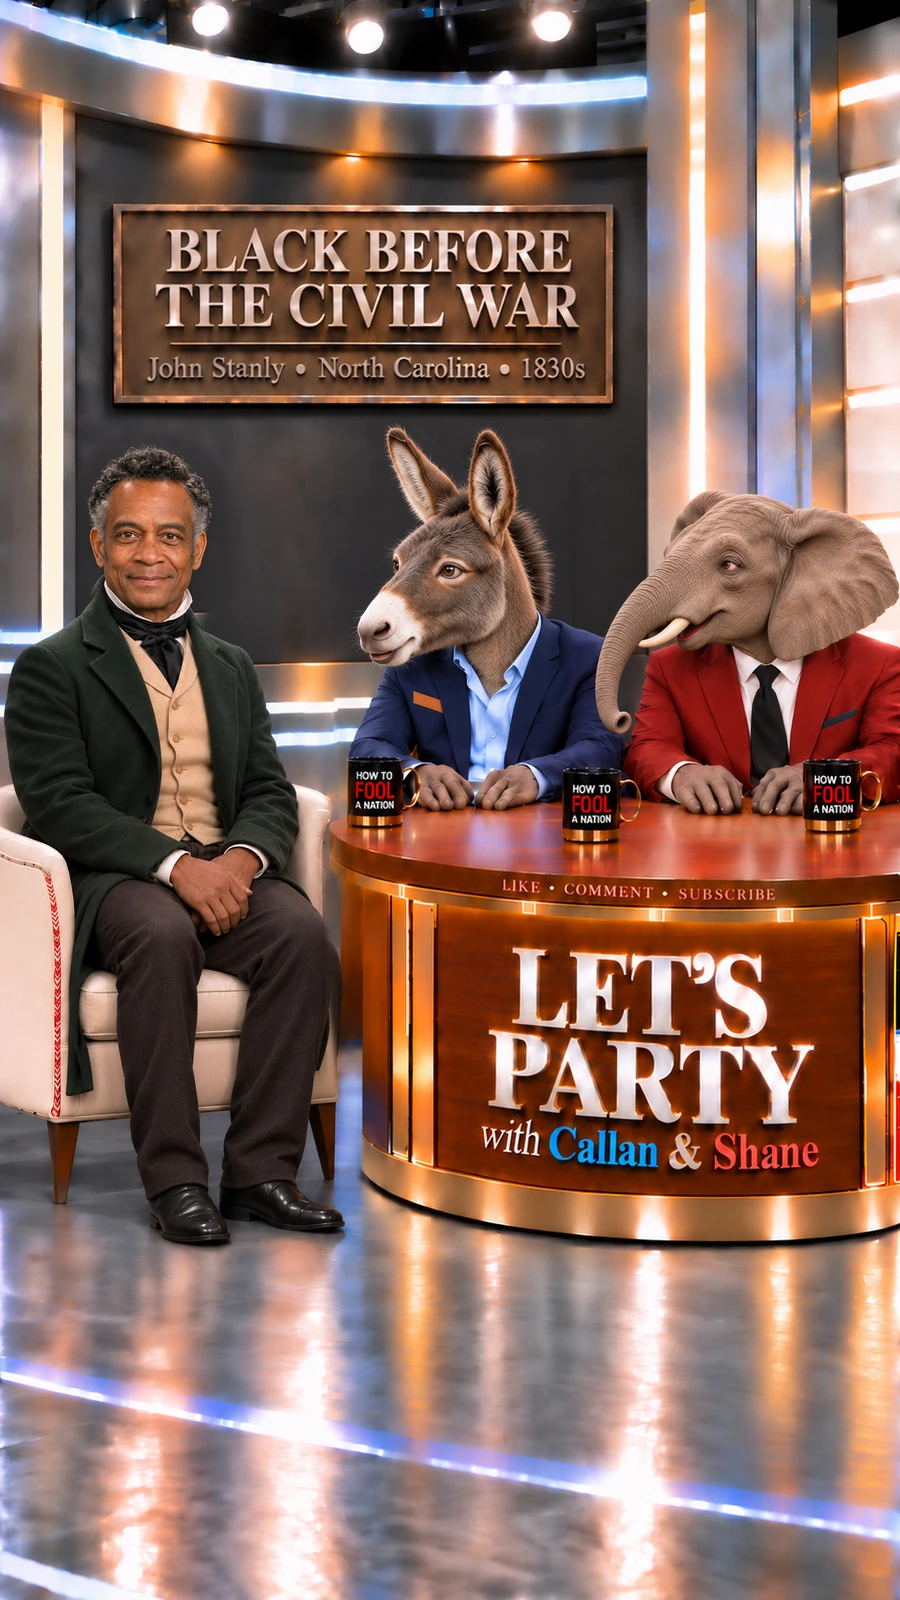
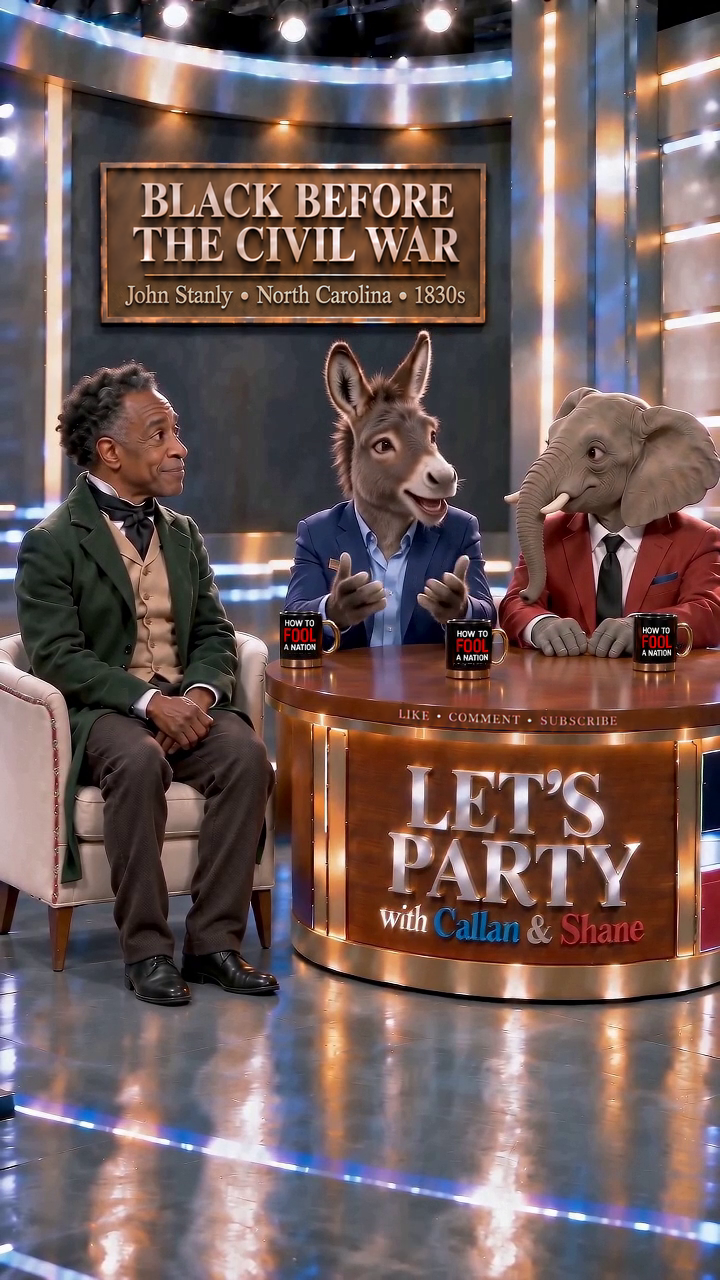
Restore the Episode Two plaque and desk engraving

diff --git a/index.html b/index.html
@@ -142,7 +142,7 @@
                     </figure>
                     <figure class="min-w-0">
                         <figcaption class="mb-2 text-center text-sm font-semibold leading-snug text-amber-400 sm:text-base"><span class="whitespace-nowrap">Season One,</span> <span class="block whitespace-nowrap min-[440px]:inline">Episode Two</span></figcaption>
-                        <img src="callan-shane-stanly.webp" width="900" height="1600" loading="lazy" decoding="async" alt="John Carruthers Stanly sits beside Callan and Shane beneath the Black Before the Civil War studio sign." class="block h-auto w-full rounded-xl shadow-xl">
+                        <img src="callan-shane-stanly.webp?v=callan-to-shane" width="720" height="1280" loading="lazy" decoding="async" alt="Callan turns toward Shane with both hands raised as John Carruthers Stanly watches from the guest chair." class="block h-auto w-full rounded-xl shadow-xl">
                     </figure>
                 </div>
             </div>
